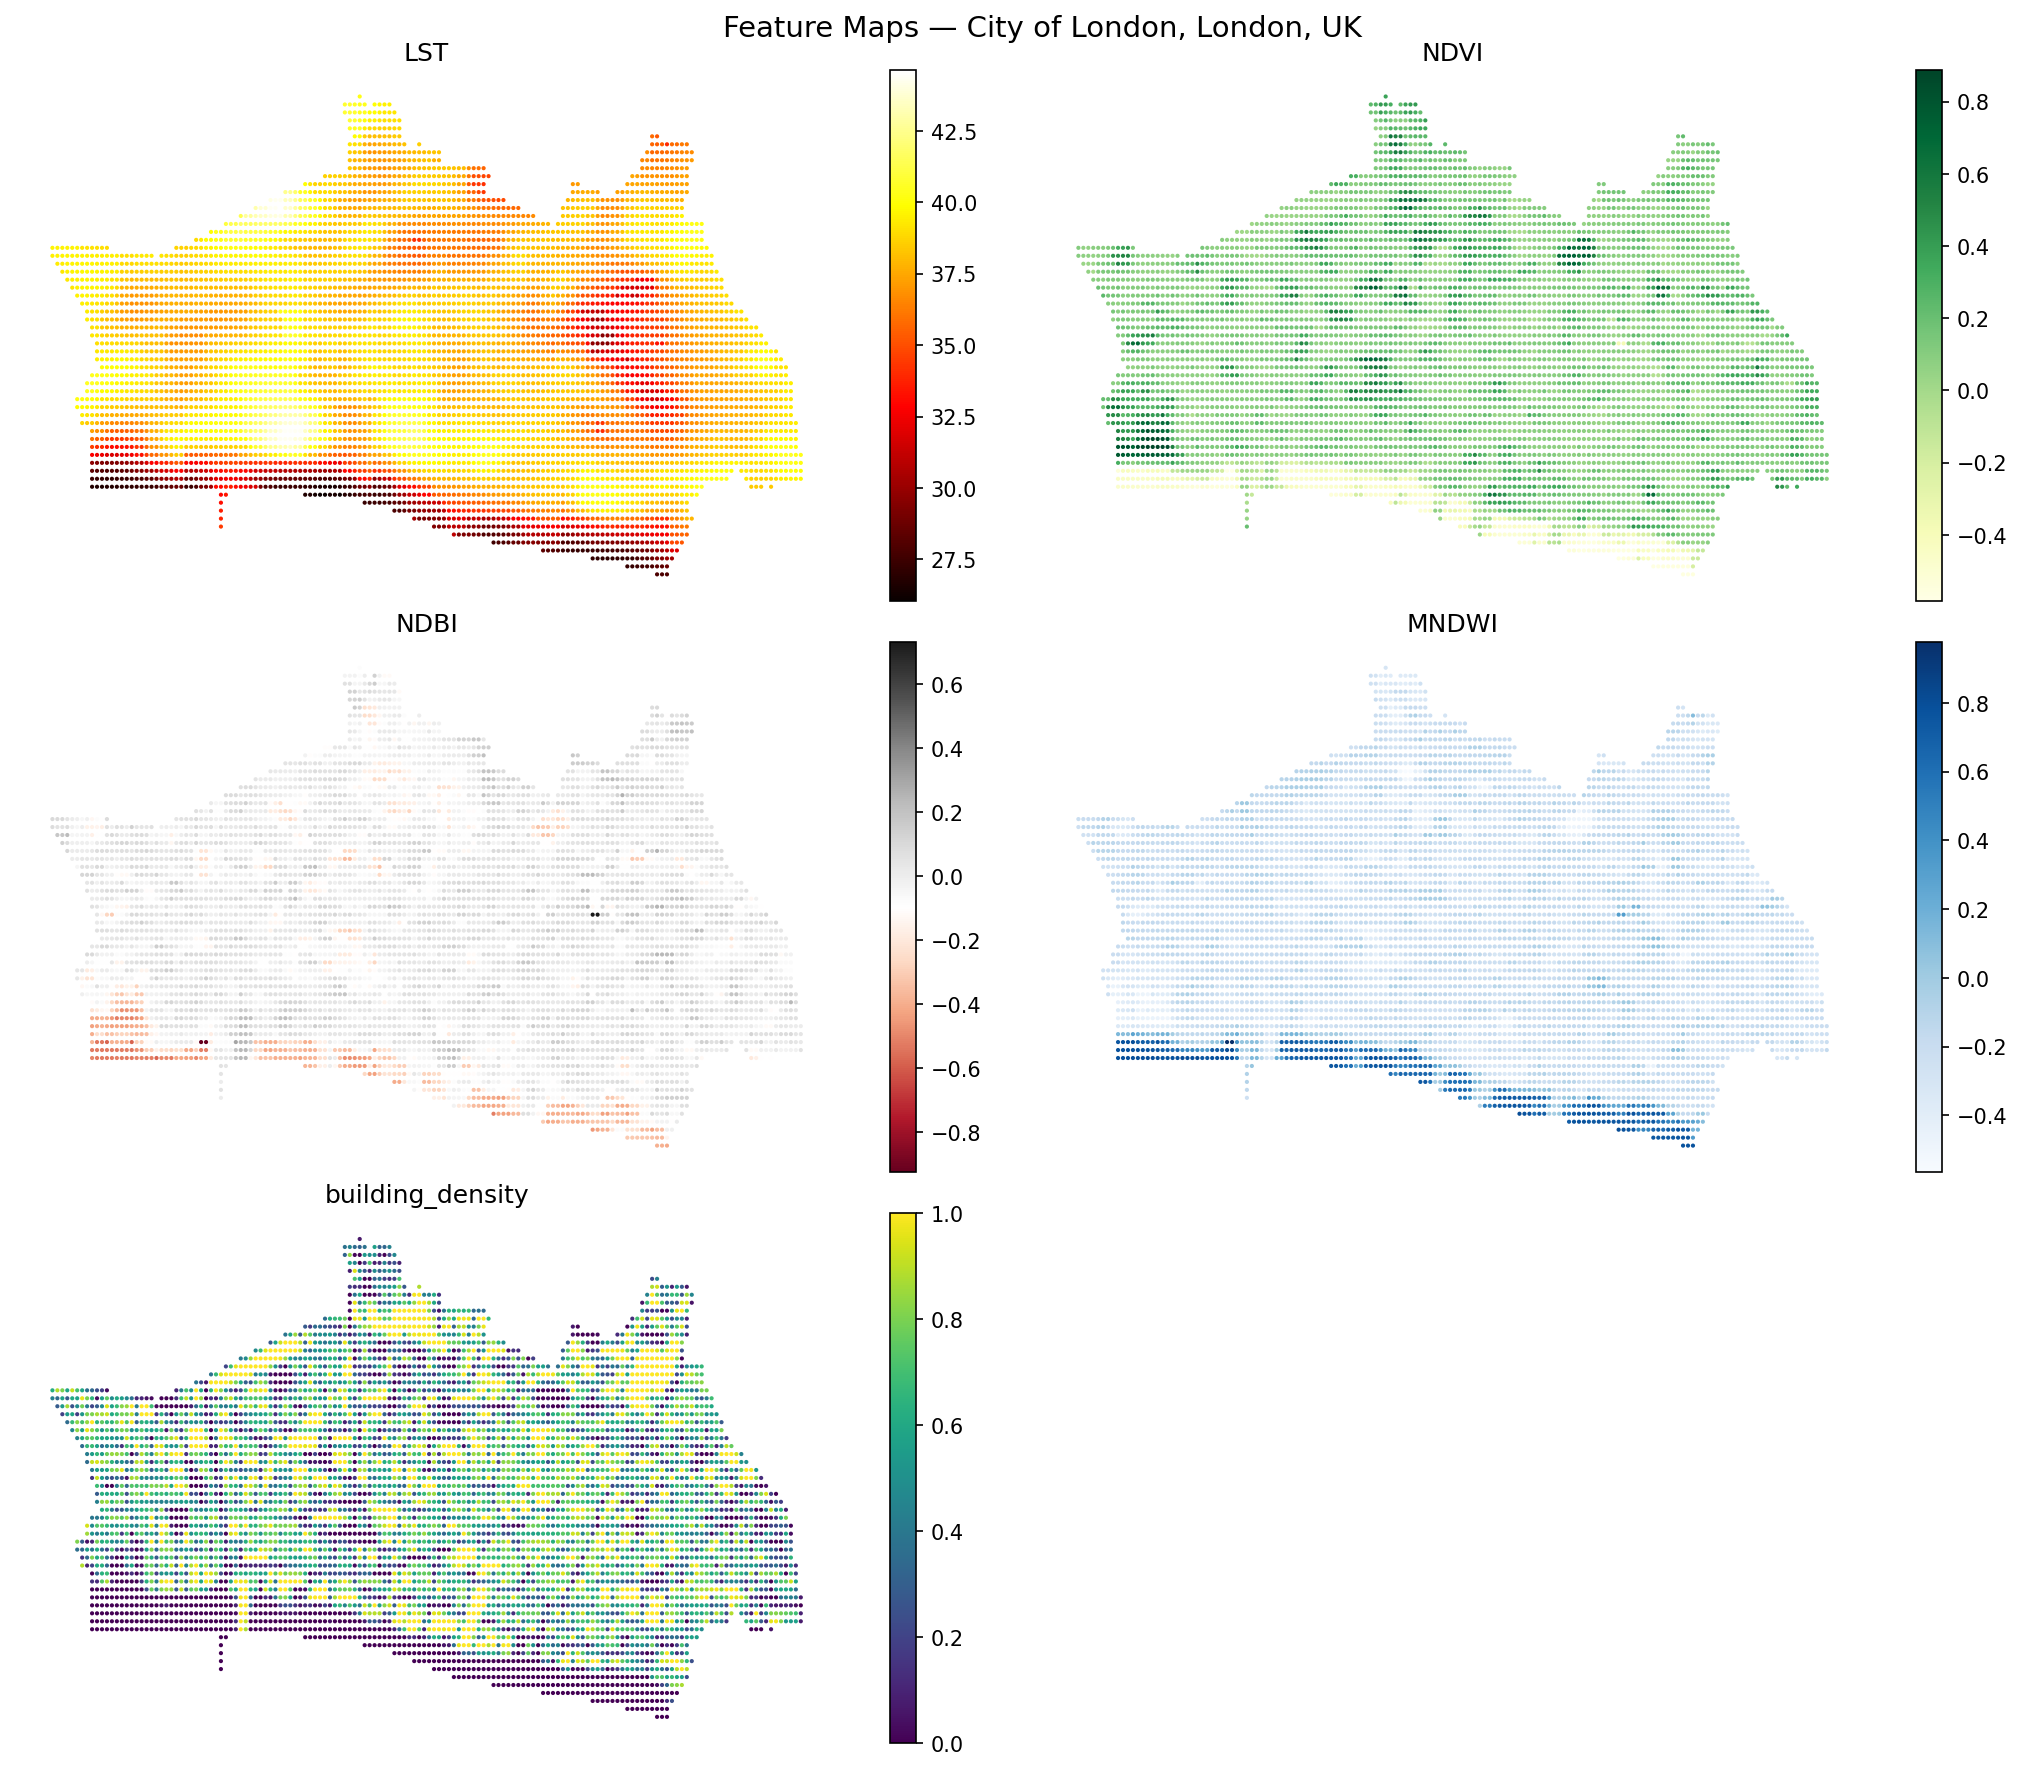
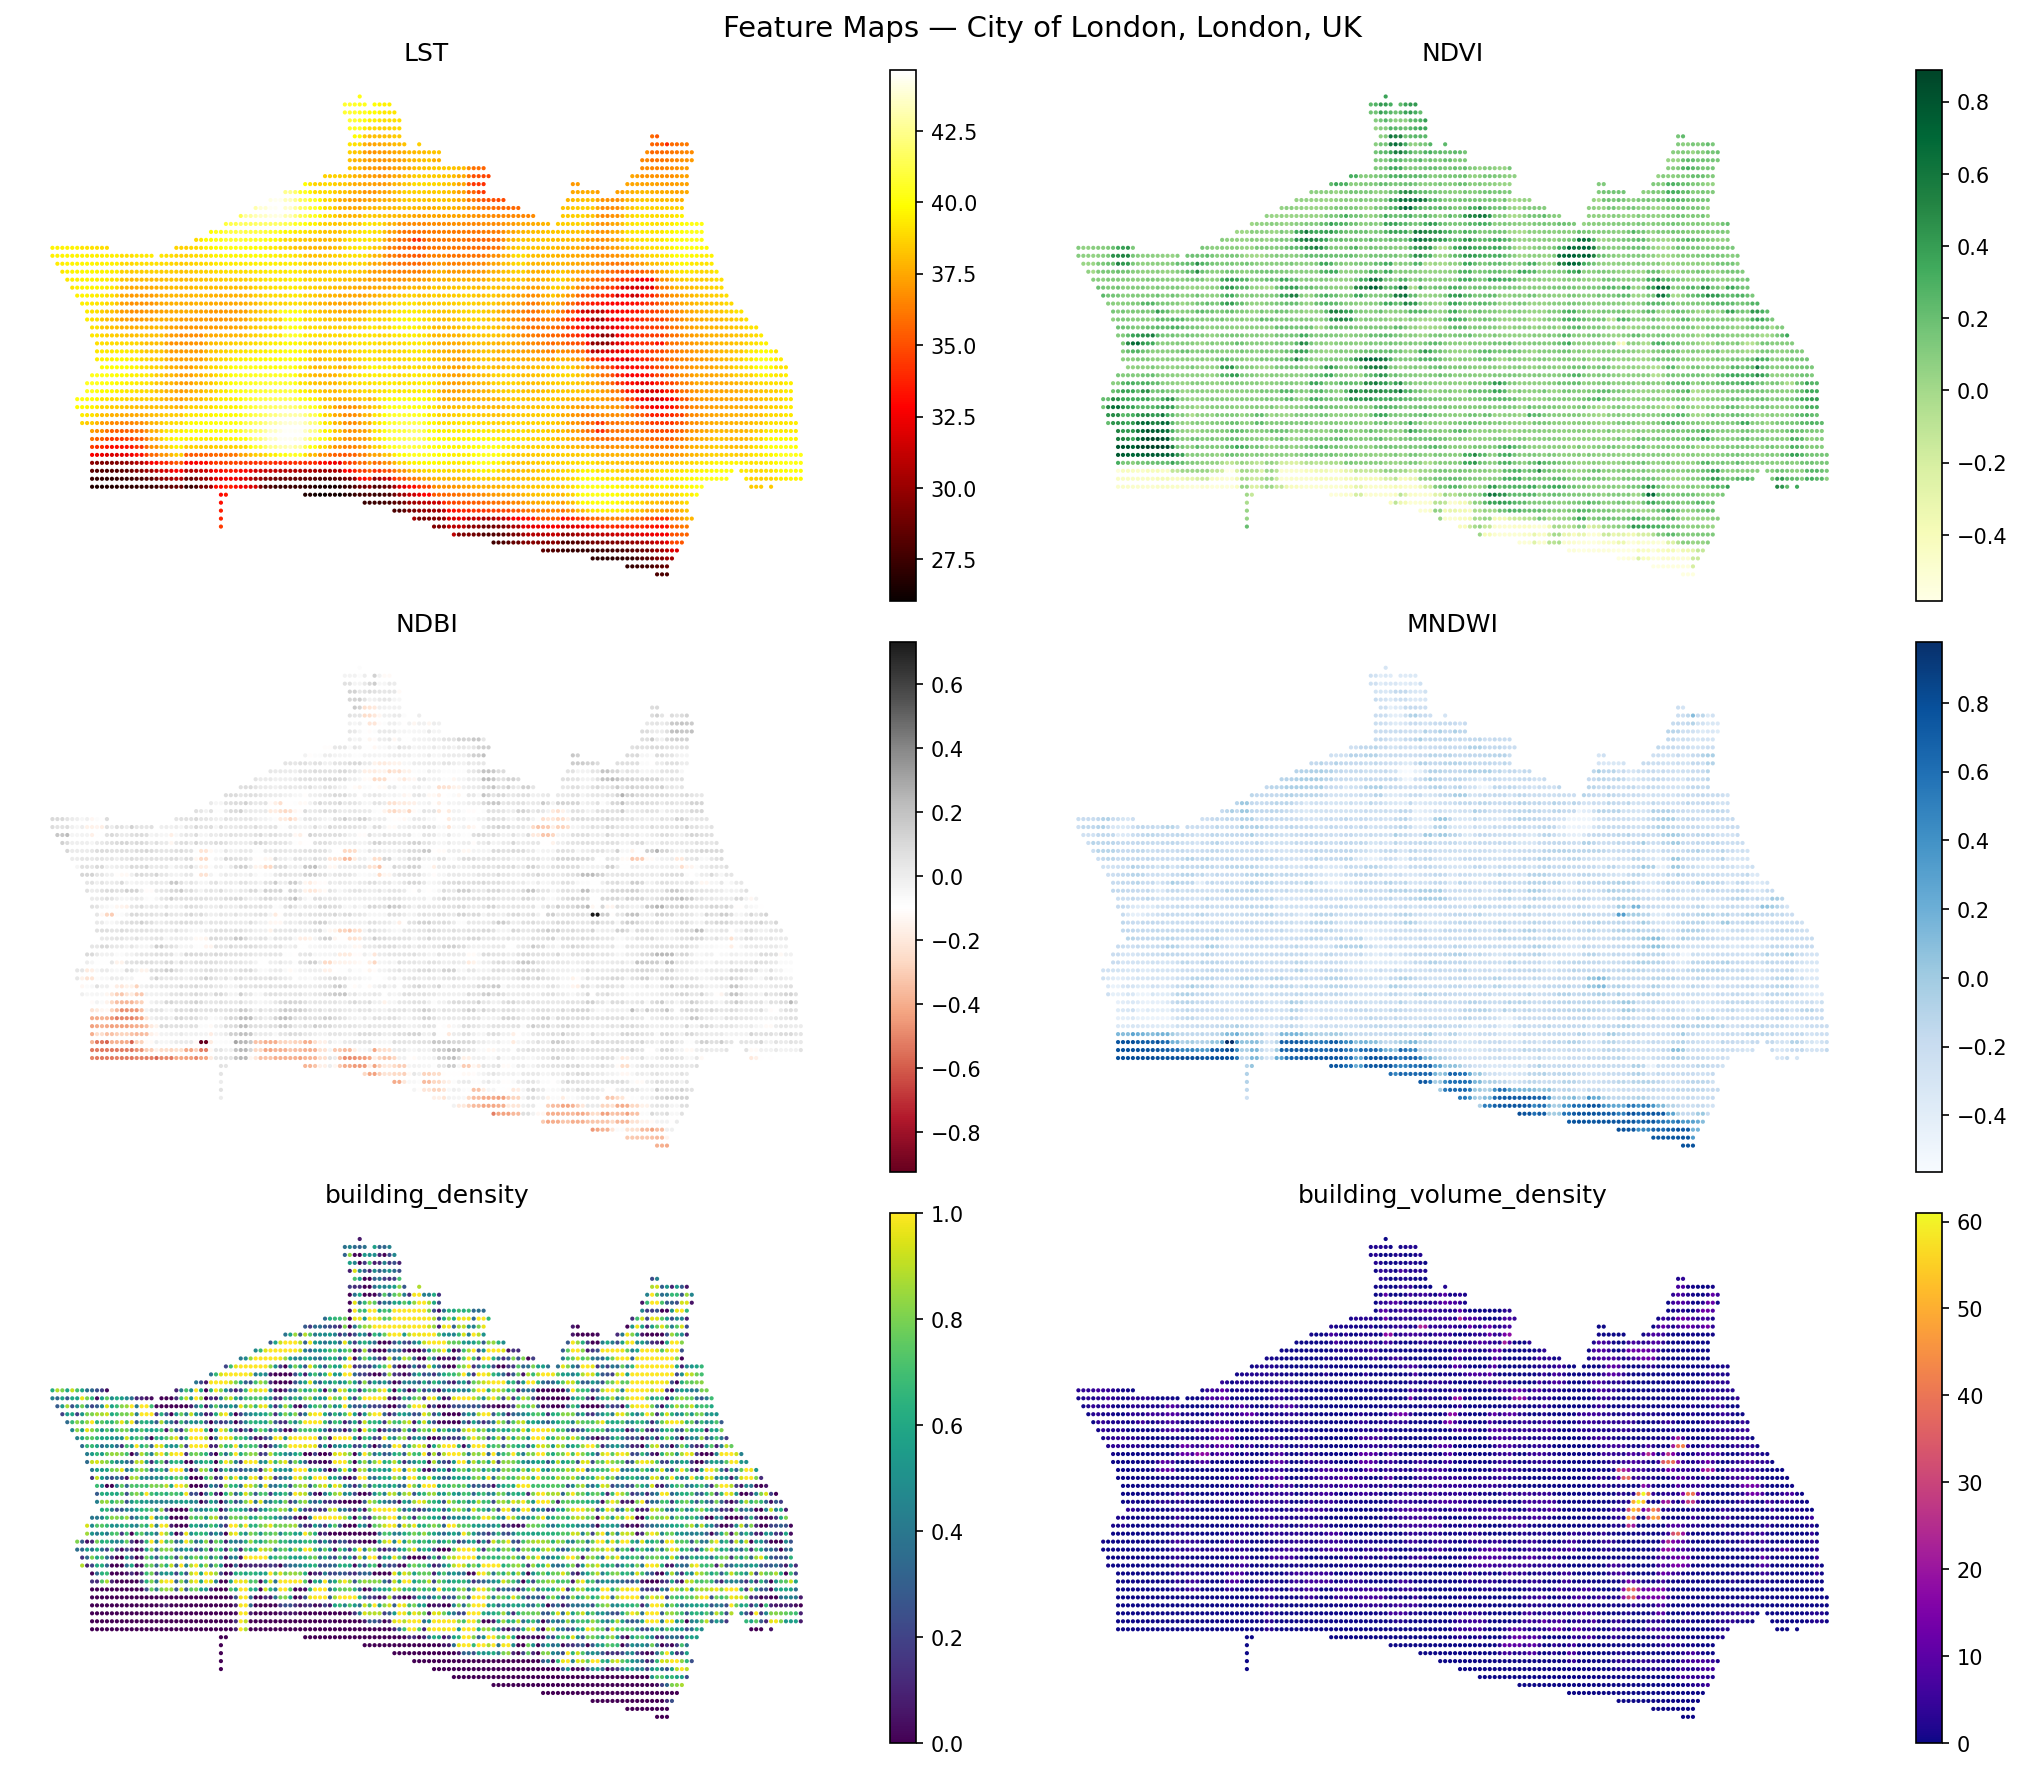
new changes

Changed region(s): [[0.5297, 0.6525, 0.9036, 0.9633], [0.9347, 0.6836, 0.9659, 0.9944]]

diff --git a/notebooks/data_processing.py b/notebooks/data_processing.py
@@ -1,3 +1,4 @@
+import os
 import osmnx as ox
 import sys
 sys.path.append("../")
@@ -51,12 +52,6 @@ volume_grid = compute_volume_density(buildings_df_clean, cells)
 london_urban_design_df = attach_density_to_points(landsat_gdf_clean, density_grid)
 london_urban_design_df = attach_volume_density_to_points(london_urban_design_df, volume_grid)
 
-# Save final table
-out_gpkg = "../data/london_urban_design_data.gpkg"
-london_urban_design_df.to_file(out_gpkg, driver="GPKG")
-print(f"Saved {out_gpkg}")
-
-
 
 # ======================
 # Sanity Checks
@@ -78,6 +73,13 @@ if pct_over > 0:
 # in memory.
 # ======================
 out_gpkg = "../data/london_urban_design_data.gpkg"
+if os.path.exists(out_gpkg):
+    # GPKG is a multi-layer SQLite container — writing to an existing file
+    # can add a new layer alongside whatever's already there rather than
+    # replacing it outright, and gpd.read_file() silently defaults to
+    # GDAL's first-listed layer rather than the one just written. Removing
+    # the file first guarantees a single, unambiguous layer on every run.
+    os.remove(out_gpkg)
 london_urban_design_df.to_file(out_gpkg, driver="GPKG")
 print(f"Saved {out_gpkg}")
 

diff --git a/notebooks/02_data_exploration.py b/notebooks/02_data_exploration.py
@@ -16,7 +16,7 @@ borough_polygon = borough_gdf.geometry.iloc[0]
 borough_mask = data.within(borough_polygon)
 borough_data = data[borough_mask]
 
-borough_data.shape
+print(borough_data.shape)
 borough_data.head()
 
 # ---------------------- 
